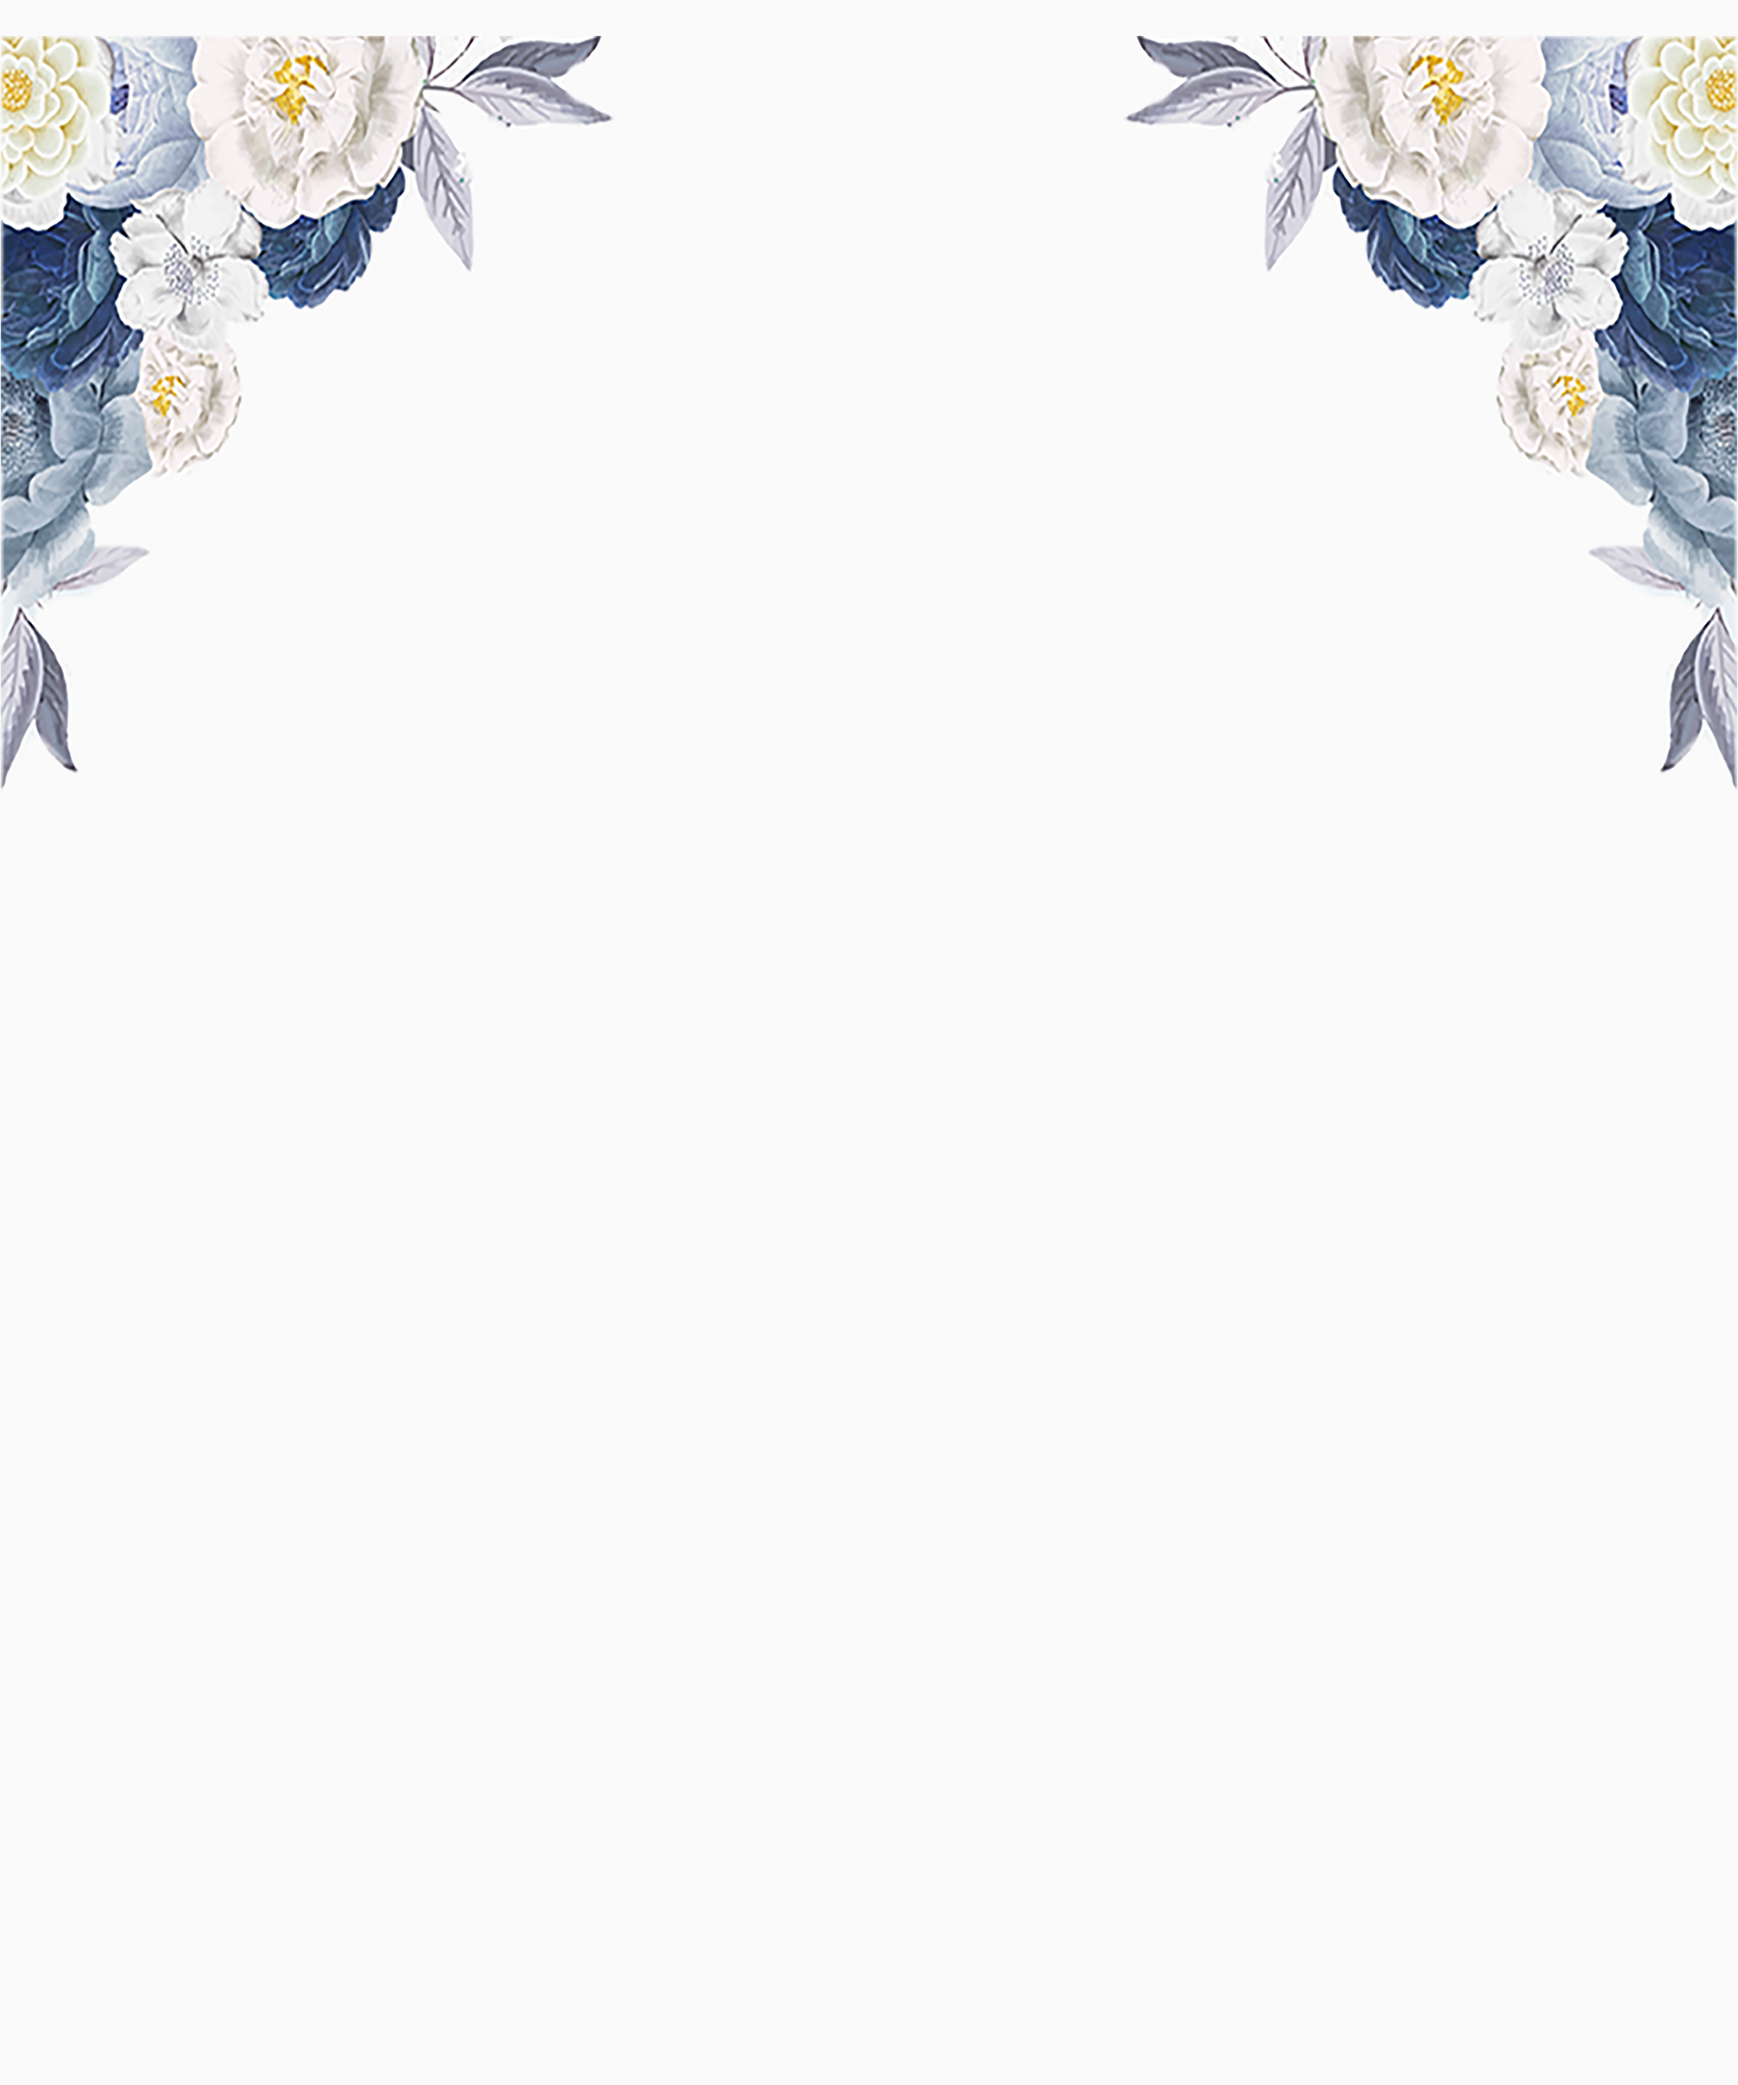
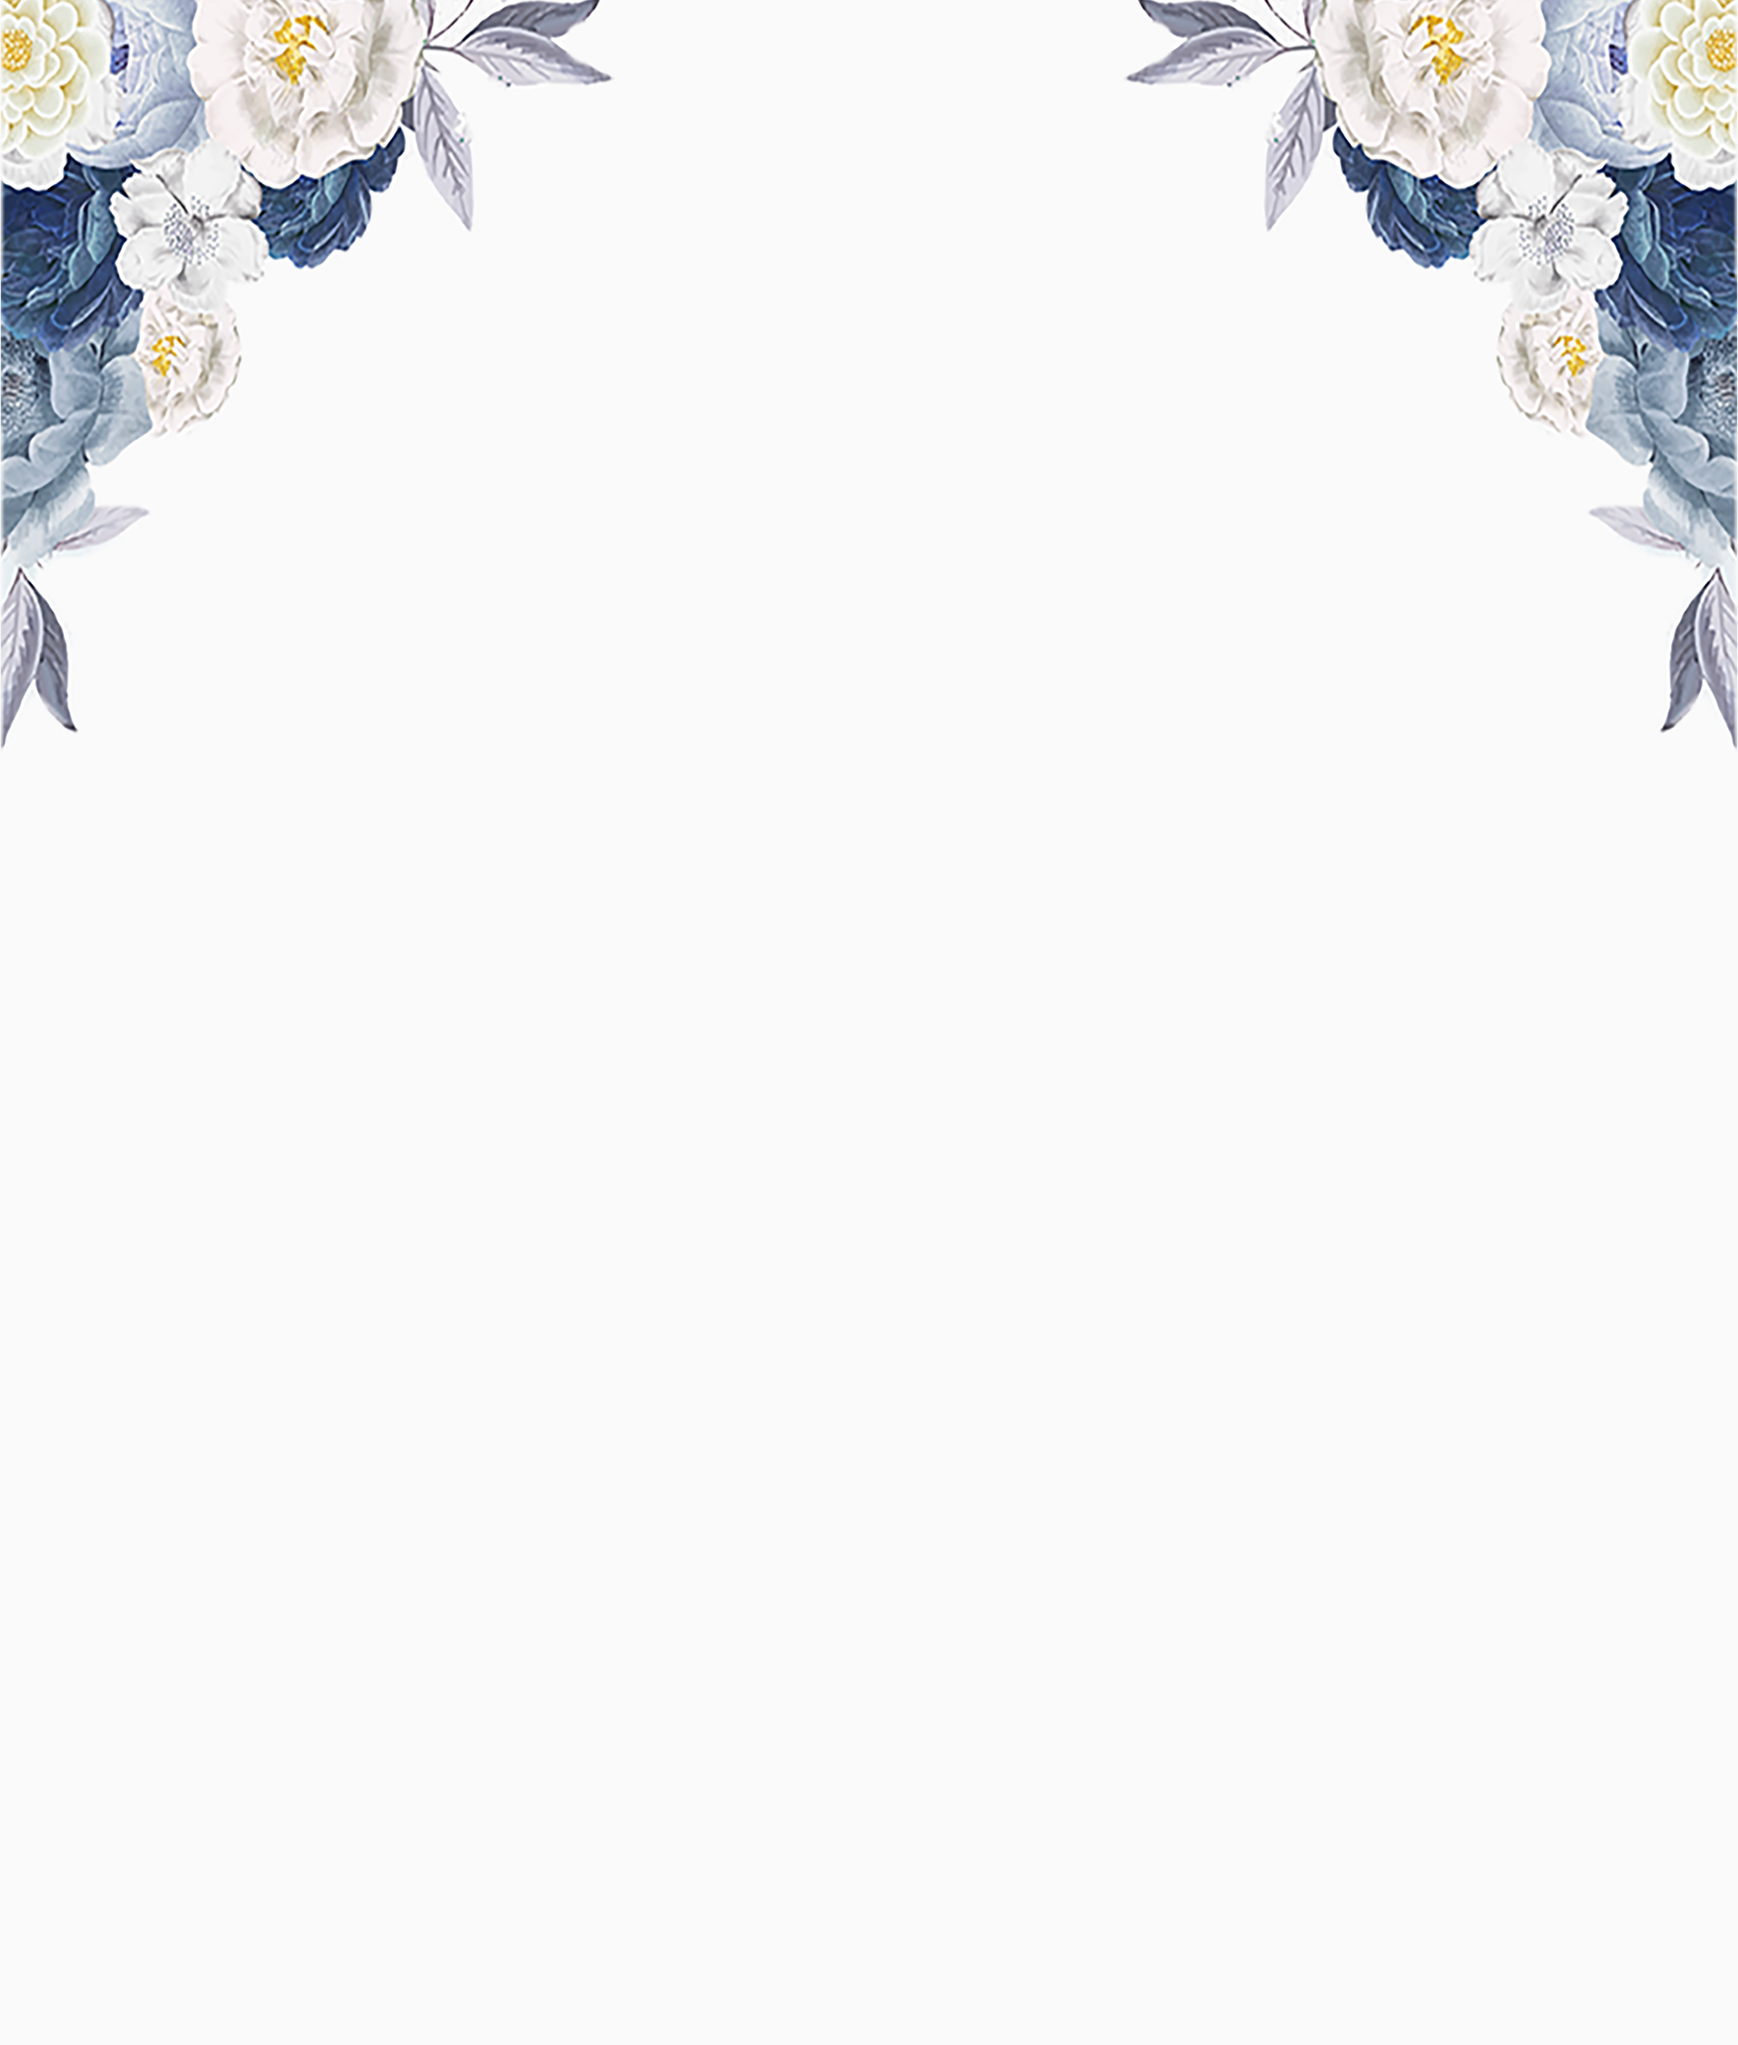
fixed glitch on content layout

Changed region(s): [[0.6551, 0.0, 1.0, 0.3744], [0.0, 0.0, 0.3432, 0.3744]]

diff --git a/src/styles/global.css b/src/styles/global.css
@@ -71,7 +71,7 @@
   }
 
   body {
-    padding: 2rem;
+    /* padding: 2rem; */
     background-color: var(--primary-bgcolor);
     font-family: var(--primary-font);
     font-size: 1.6rem;
@@ -105,6 +105,17 @@
     width: 100%;
   }
 
+  section {
+    margin-top: 7rem;
+    width: 100%;
+    height: 100%;
+    min-height: 95vh;
+    padding: 0;
+    display: flex;
+    align-items: center;
+    justify-content: center;
+  }
+
   img {
     width: 100%;
   }
@@ -120,7 +131,8 @@
     position: fixed;
     top: 0;
     height: 7rem;
-    width: 100%;
+    left: 0;
+    right: 0;
   }
 
    
@@ -129,28 +141,24 @@
     width: 100%;
     height: 100%;
     padding: 0;
+    display: flex;
+    align-items: center;
+    justify-content: center;
+  }
+
+  .content {
+    width: 100%;
+    height: 100%;
+    min-height: 100vh;
+    margin: 0 auto;
 
     display: flex;
     align-items: center;
     justify-content: center;
   }
 
-
-/*   
-  .main-image {
-   width: 80%;
-   margin: 1rem auto;
-   text-align: center;
-  }
-
-  .main-image img {
-    max-width: 400px;
-    max-height: 500px;
-    object-fit: cover;
-  } */
-
   .content-details {
-    width: 80%;
+    width: 100%;
     max-width: 1000px;
     height: 100%;
     padding: 3rem;
@@ -252,7 +260,6 @@
   .social-icons li {
     transition: opacity 0.3s;
   }
-
 
   .social-icons li:hover {
     opacity: 50%;
@@ -425,51 +432,24 @@
   }
 
 
-
-  @media (max-width: 900px) {
-    .mobile-nav-links {
-      display: flex;
-    }
-  }
- 
-  
-  @keyframes slideDown {
-    0% {
-      opacity: 0;
-      transform: translateY(-20rem);
-    }
-    100% {
-      opacity: 1;
-      transform: translateY(0);
-    }
-  }
-  
-
-  @media (min-width: 1370.1px) {
+  @media (min-width: 1200.1px) {
     html {
       font-size: 62.5%;
     }
 
     .content {
-      width: 100%;
-      height: 100%;
-      min-height: 100vh;
-      margin: 5rem auto;
-      padding: 7rem;
-      background-image: url("/images/bg-floral-2.jpg");
+      /* background-image: url("/images/bg-floral-2.jpg"); */
+      background-image: url("/images/bg-floral.png");
+
       background-size: cover;
       background-position: center;
-      background-repeat: no-repeat; /* Do not repeat the image */
-  
-      display: flex;
-      align-items: center;
-      justify-content: center;
+      background-repeat: no-repeat;
     }
   
   
   }
   
-  @media (max-width: 1370px) {
+  @media (max-width: 1200px) {
     html {
       font-size: 56%;
     }
@@ -480,18 +460,10 @@
 
     .content {
       width: 100%;
-      height: 100%;
-      min-height: 100vh;
-      /* margin: 5rem auto; */
-      /* margin-top: 50rem; */
-      padding: 7rem;
-      background-image: url("/images/bg-floral-2.jpg");
+      background-image: url("/images/bg-floral.png");
       background-size: contain;
-      /* background-position: center; */
-      background-repeat: no-repeat; /* Do not repeat the image */
-      display: flex;
-      align-items: center;
-      justify-content: center;
+      background-repeat: no-repeat;
+     
     }
 
   }
@@ -503,7 +475,7 @@
 
     .content {
       padding: 1rem;
-      margin-top: 5rem;
+      /* margin-top: 5rem; */
     }
 
     .content-details {
@@ -516,7 +488,10 @@
       flex-direction: column;
       column-gap: 2rem;
       font-size: 4rem;
-    
+    }
+
+    .mobile-nav-links {
+      display: flex;
     }
   }
 
